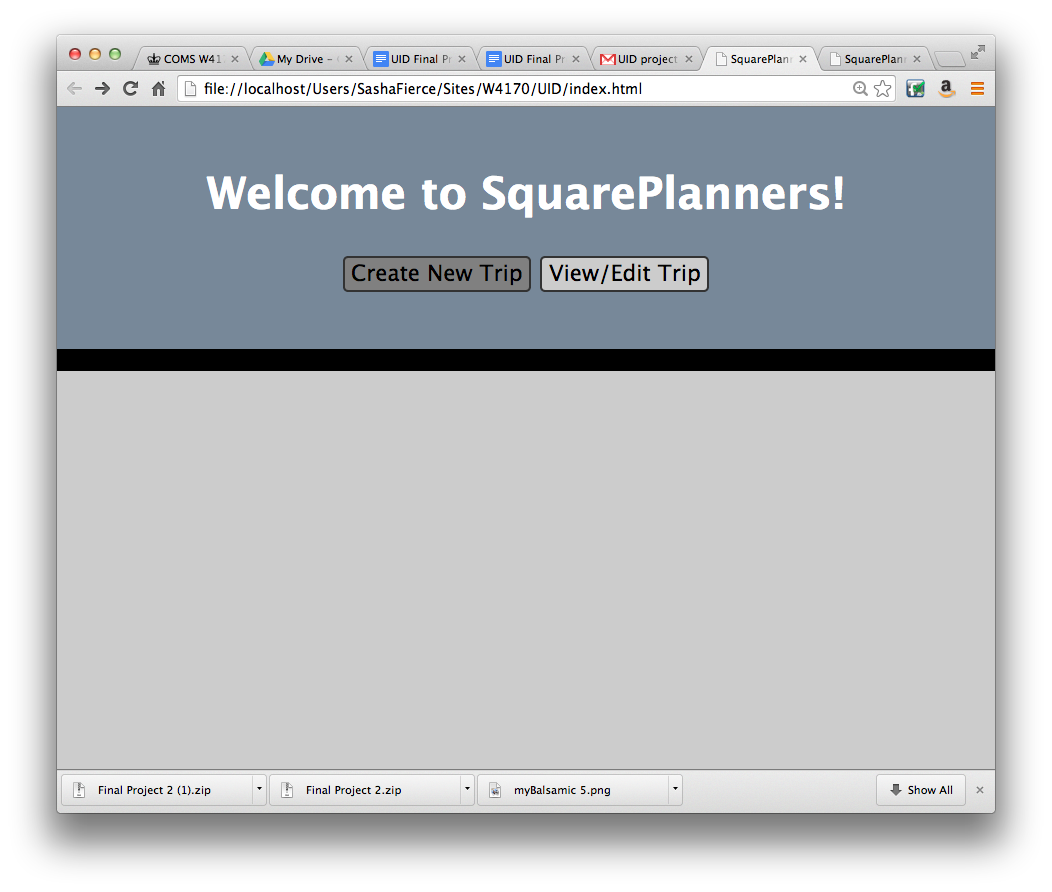
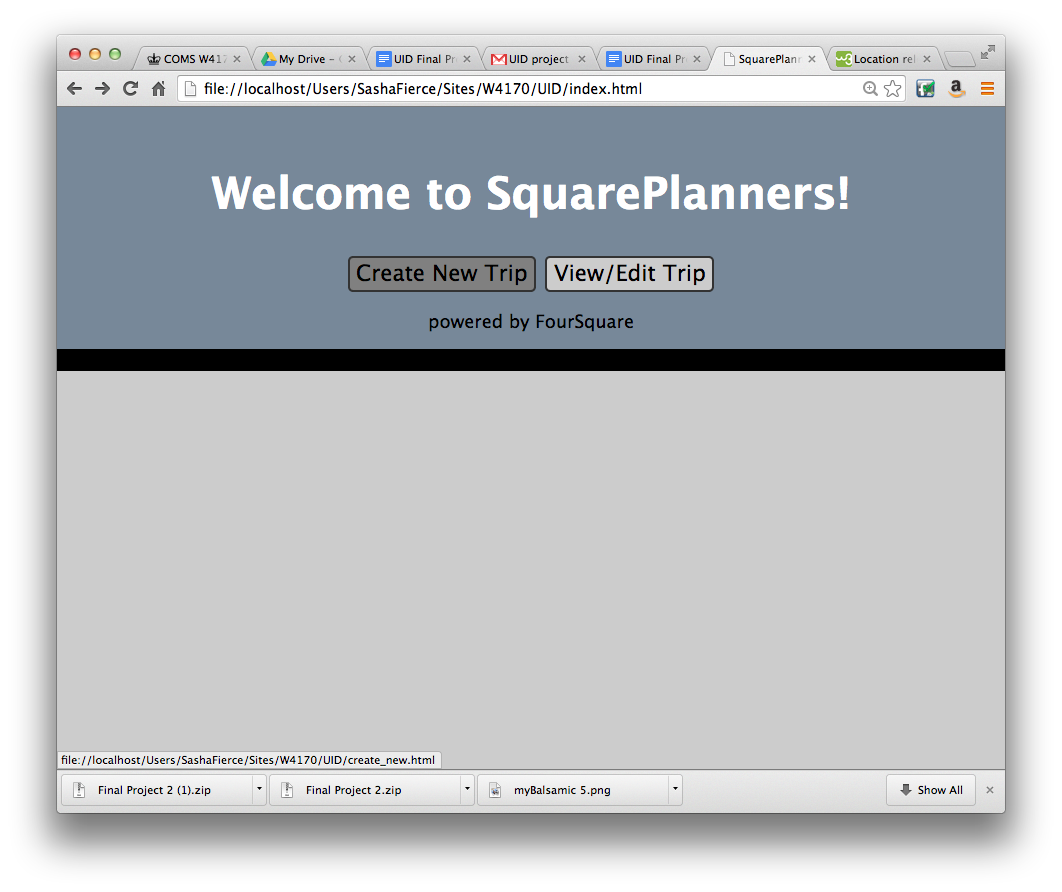
Updates

diff --git a/index.html b/index.html
@@ -17,6 +17,7 @@
 <!-- end of header div -->
 
 <div id="main">
+<!--
 <form id="newItin">
 	<h3>Name of Itinerary:</h3>
 		<input type="text" placeholder="Name" id="nameItin">*
@@ -42,7 +43,7 @@
 		<button onclick="hideItin()">Trash</button>
 		</div>
 
-	</div>
+	</div-->
 	<!-- end of searchResults div -->
 
 	<div id= "finalList">
@@ -65,7 +66,7 @@
 	</div>
 	<!-- end of finalList div -->
 
-	<div id="viewEdit">
+	<!--div id="viewEdit">
 		<h1>Your Trips</h1><hr/>
 		<div id="myTrips"></div>
 		
@@ -74,7 +75,7 @@
 		<input type="checkbox">Trip 3</input><button class="edit">View/Edit</button><hr/>
 		
 		<button style="background-color: red;">DELETE</button>		
-	</div>
+	</div-->
 	<!-- end of viewEdit div -->	
 
 </div>

diff --git a/your_trips.html b/your_trips.html
@@ -11,7 +11,8 @@
 	<a href="index.html"><h2>Welcome to SquarePlanners!</h2></a>
 	<a href="create_new.html"><button id="createNewItin">Create New Trip</button></a>
 	<a href="your_trips.html"><button id="viewEditItin">View/Edit Trip</button></a>
-
+	<p>powered by FourSquare</p>	
+	
 </div>
 <!-- end of header div -->
 

diff --git a/script.js b/script.js
@@ -26,6 +26,7 @@ function trash()
 	listLat.length = 0;
 	listLng.length = 0;
 	myListArr.length = 0;
+	location.reload();
 }
 
 function onInitFileSystem(filesystem) {
